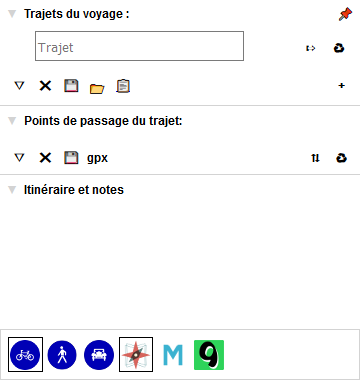
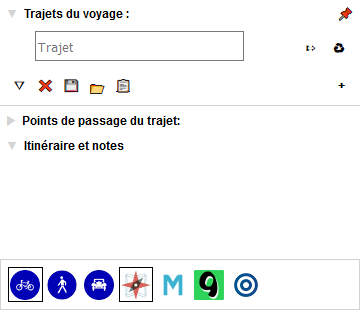
guides

diff --git a/TravelNotesGuides/GuideUtilisateurFR.md b/TravelNotesGuides/GuideUtilisateurFR.md
@@ -97,7 +97,7 @@ Il est possible de donner un nom à chaque trajet. Cela n'est pas indispensable 
 
 ### Points de passage du trajet
 
-Lorsque un trajet est édité, les différents points de passage de ce trajet sont affichés dans la partie "Points de passage du trajet".
+Avant de pouvoir visualiser les points de passage d'un trajet, il est nécessaire de commencer l'édition de celui-ci avec le bouton &#x21f0; présent dans la liste des trajets.
 
 #### Boutons de la barre d'outils "Points de passage du trajet"
 
@@ -227,6 +227,48 @@ La zone "Contenu de l'icône" sera utilisée pour représenter la note sur la ca
 
 La zone "Adresse" est complétée automatiquement lors de la création de la note - [Nominatim](http://wiki.openstreetmap.org/wiki/Nominatim) est utilisé pour géolocaliser les notes.
 Cette zone ne sera jamais modifiée par Nominantim par la suite, même si la note a été déplacée.
+
+#### Quleques exemples de notes 
+
+##### Une note simple créée à partir d'une note prédéfinies
+
+La boite de dialogue: 
+
+<img src="NoteStandard1FR.PNG" />
+
+Et le résultat dans TravelNotes:
+
+<img src="NoteStandard2FR.PNG" />
+
+##### Une note avec un texte sur une ligne
+
+La boite de dialogue: 
+
+<img src="NoteTexte1FR.PNG" />
+
+Et le résultat dans TravelNotes:
+
+<img src="NoteTexte2FR.PNG" />
+
+##### Une note avec un texte sur plusieurs lignes
+
+La boite de dialogue: 
+
+<img src="NoteTexte3FR.PNG" />
+
+Et le résultat dans TravelNotes:
+
+<img src="NoteTexte4FR.PNG" />
+
+##### Une note avec une photo
+
+La boite de dialogue: 
+
+<img src="NotePhoto1FR.PNG" />
+
+Et le résultat dans TravelNotes:
+
+<img src="NotePhoto1FR.PNG" />
 
 ### La boite d'édition des propriétés d'un trajet
 
